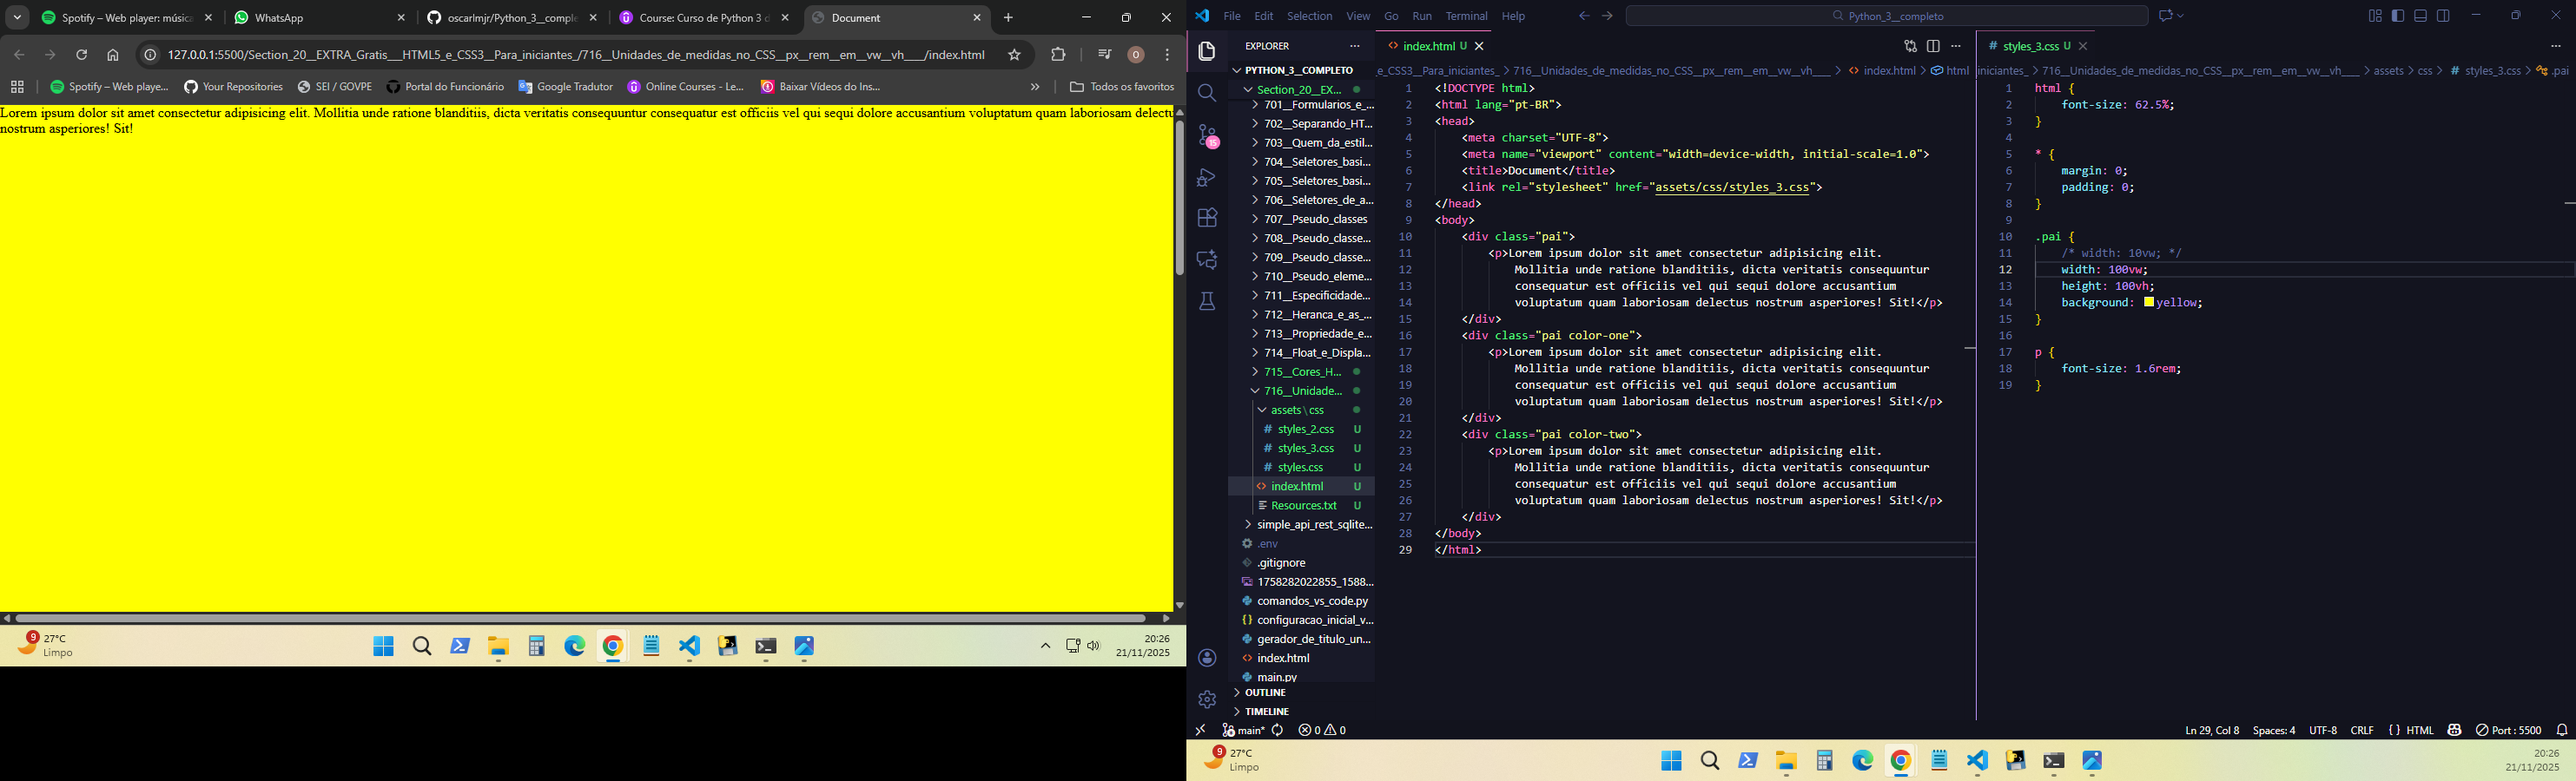
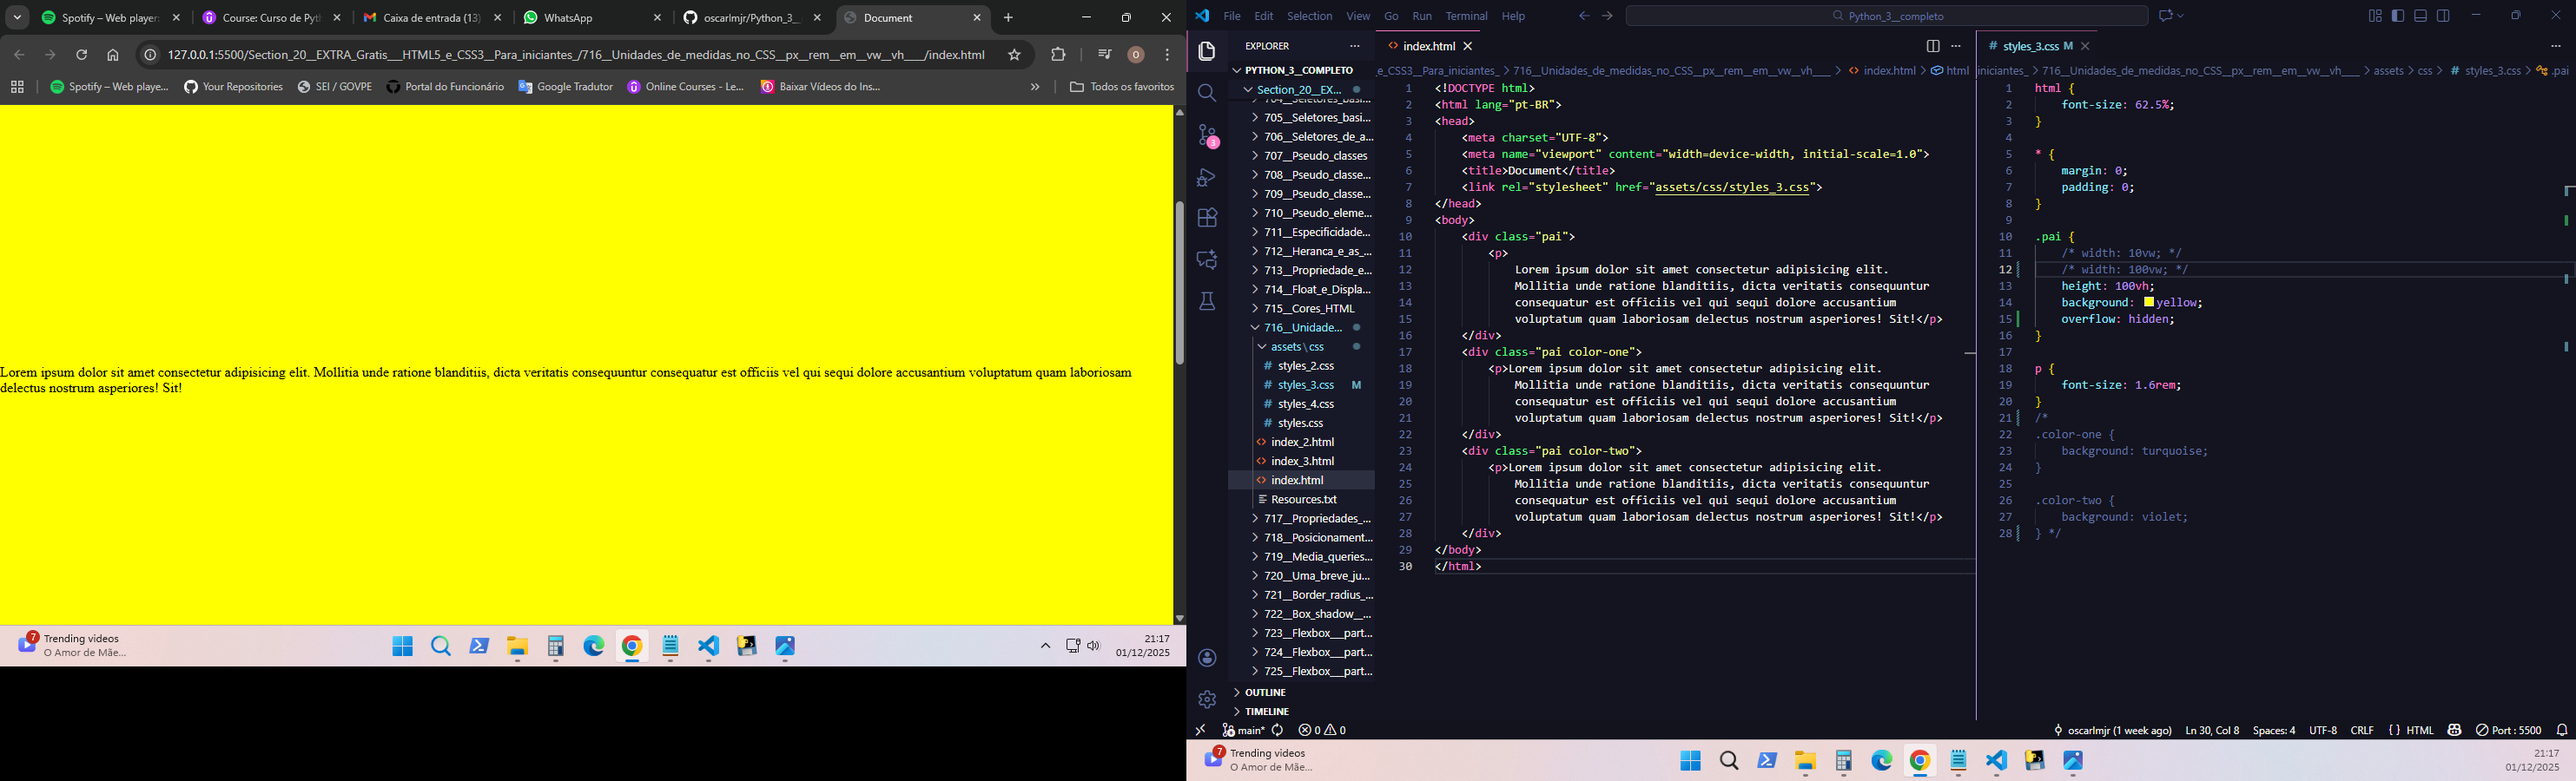
secao_20 aula_716

diff --git a/Section_20__EXTRA_Gratis___HTML5_e_CSS3__Para_iniciantes_/716__Unidades_de_medidas_no_CSS__px__rem__em__vw__vh____/index_3.html b/Section_20__EXTRA_Gratis___HTML5_e_CSS3__Para_iniciantes_/716__Unidades_de_medidas_no_CSS__px__rem__em__vw__vh____/index_3.html
@@ -4,7 +4,10 @@
     <meta charset="UTF-8">
     <meta name="viewport" content="width=device-width, initial-scale=1.0">
     <title>Document</title>
-    <link rel="stylesheet" href="assets/css/styles_4.css">
+    <!-- <link rel="stylesheet" href="assets/css/styles_4.css"> -->
+    <!-- <link rel="stylesheet" href="assets/css/styles_5.css"> -->
+    <!-- <link rel="stylesheet" href="assets/css/styles_6.css"> -->
+    <link rel="stylesheet" href="assets/css/styles_7.css">
 </head>
 <body>
     <a href="#one">One</a>

diff --git a/Section_20__EXTRA_Gratis___HTML5_e_CSS3__Para_iniciantes_/716__Unidades_de_medidas_no_CSS__px__rem__em__vw__vh____/assets/css/styles_7.css b/Section_20__EXTRA_Gratis___HTML5_e_CSS3__Para_iniciantes_/716__Unidades_de_medidas_no_CSS__px__rem__em__vw__vh____/assets/css/styles_7.css
@@ -9,19 +9,18 @@ html {
 }
 
 .pai {
+    width: 50rem;   /* 500px */
     height: 100vh;
     background: yellow;
     overflow: hidden;
 }
 
+.pai > div {
+    width: 50%;
+    height: 50rem;
+    background: blue;
+}
+
 p {
-    font-size: 1.6rem;
-}
-
-.color-one {
-    background: turquoise;
-}
-
-.color-two {
-    background: violet;
+    font-size: 2vmax;
 }

diff --git a/Section_20__EXTRA_Gratis___HTML5_e_CSS3__Para_iniciantes_/716__Unidades_de_medidas_no_CSS__px__rem__em__vw__vh____/assets/css/styles_6.css b/Section_20__EXTRA_Gratis___HTML5_e_CSS3__Para_iniciantes_/716__Unidades_de_medidas_no_CSS__px__rem__em__vw__vh____/assets/css/styles_6.css
@@ -9,13 +9,21 @@ html {
 }
 
 .pai {
+    width: 50rem;   /* 500px */
     height: 100vh;
     background: yellow;
     overflow: hidden;
 }
 
+.pai > div {
+    width: 50%;
+    height: 50rem;
+    background: blue;
+}
+
 p {
     font-size: 1.6rem;
+    /* font-size: 2vmax; */
 }
 
 .color-one {

diff --git a/Section_20__EXTRA_Gratis___HTML5_e_CSS3__Para_iniciantes_/716__Unidades_de_medidas_no_CSS__px__rem__em__vw__vh____/assets/css/styles_3.css b/Section_20__EXTRA_Gratis___HTML5_e_CSS3__Para_iniciantes_/716__Unidades_de_medidas_no_CSS__px__rem__em__vw__vh____/assets/css/styles_3.css
@@ -9,9 +9,10 @@ html {
 
 .pai {
     /* width: 10vw; */
-    width: 100vw;
+    /* width: 100vw; */
     height: 100vh;
     background: yellow;
+    overflow: hidden;
 }
 
 p {

diff --git a/Section_20__EXTRA_Gratis___HTML5_e_CSS3__Para_iniciantes_/716__Unidades_de_medidas_no_CSS__px__rem__em__vw__vh____/assets/css/styles_5.css b/Section_20__EXTRA_Gratis___HTML5_e_CSS3__Para_iniciantes_/716__Unidades_de_medidas_no_CSS__px__rem__em__vw__vh____/assets/css/styles_5.css
@@ -9,6 +9,7 @@ html {
 }
 
 .pai {
+    width: 50rem; /*500px*/
     height: 100vh;
     background: yellow;
     overflow: hidden;
